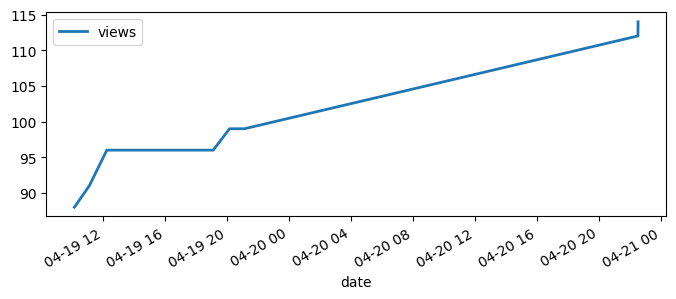
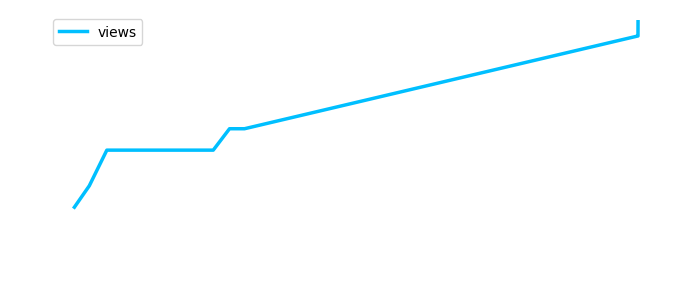
MOD: Changing the Image Size

diff --git a/scripts/plot_views.py b/scripts/plot_views.py
@@ -4,6 +4,24 @@ import pandas as pd
 df = pd.read_csv("assets/views.csv")
 df["date"] = pd.to_datetime(df["timestamp"])
 df = df.set_index("date")
-df.plot(figsize=(8, 3), linewidth=2)
+
+# Plot with blue line and white text
+ax = df.plot(
+    figsize=(8, 3),
+    linewidth=2.5,
+    color="#00BFFF",  # Bright blue (you can tweak the hex)
+)
+
+# Make all text white
+ax.tick_params(axis='both', which='major', colors='white')
+ax.yaxis.label.set_color('white')
+ax.xaxis.label.set_color('white')
+ax.title.set_color('white')
+
+# Hide borders
+for spine in ax.spines.values():
+    spine.set_visible(False)
+
+# Save to transparent image
 plt.savefig("assets/views.png", transparent=True, bbox_inches="tight", pad_inches=0.1)
 plt.close()
